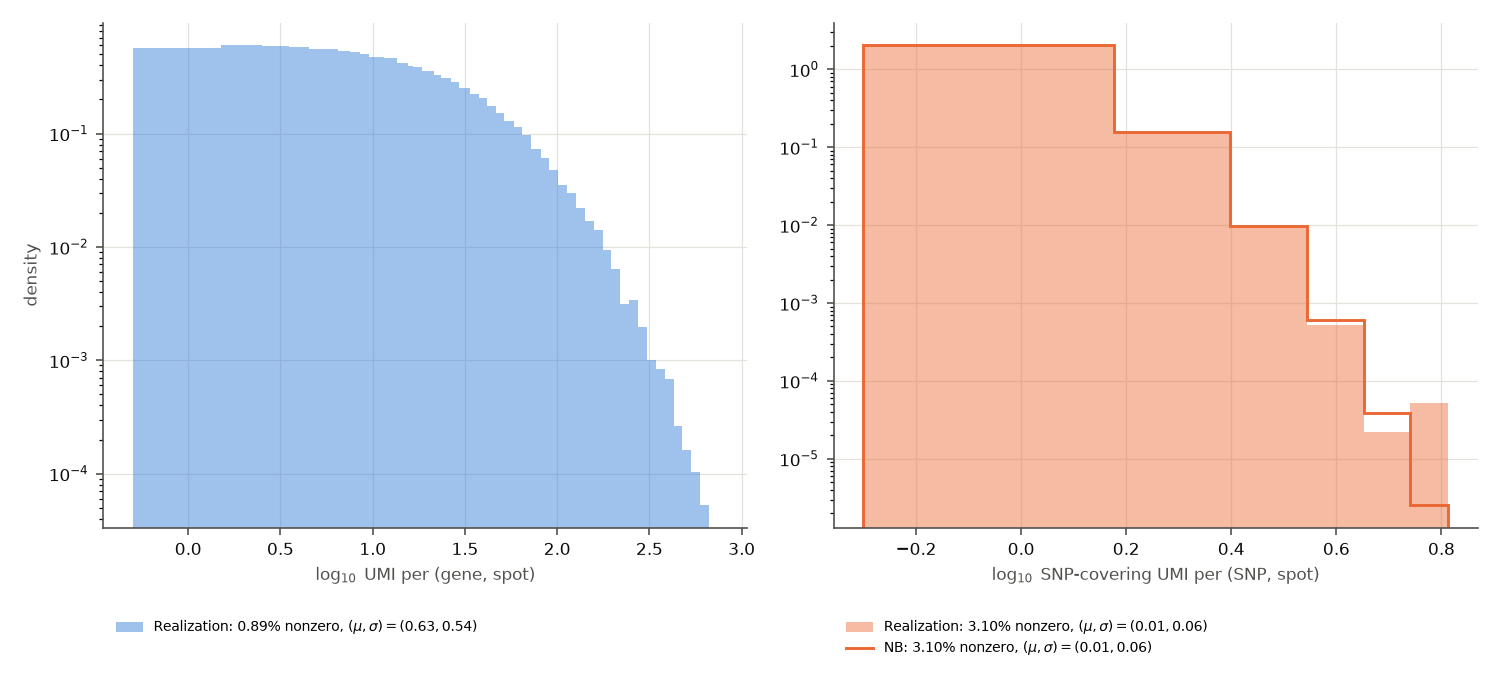
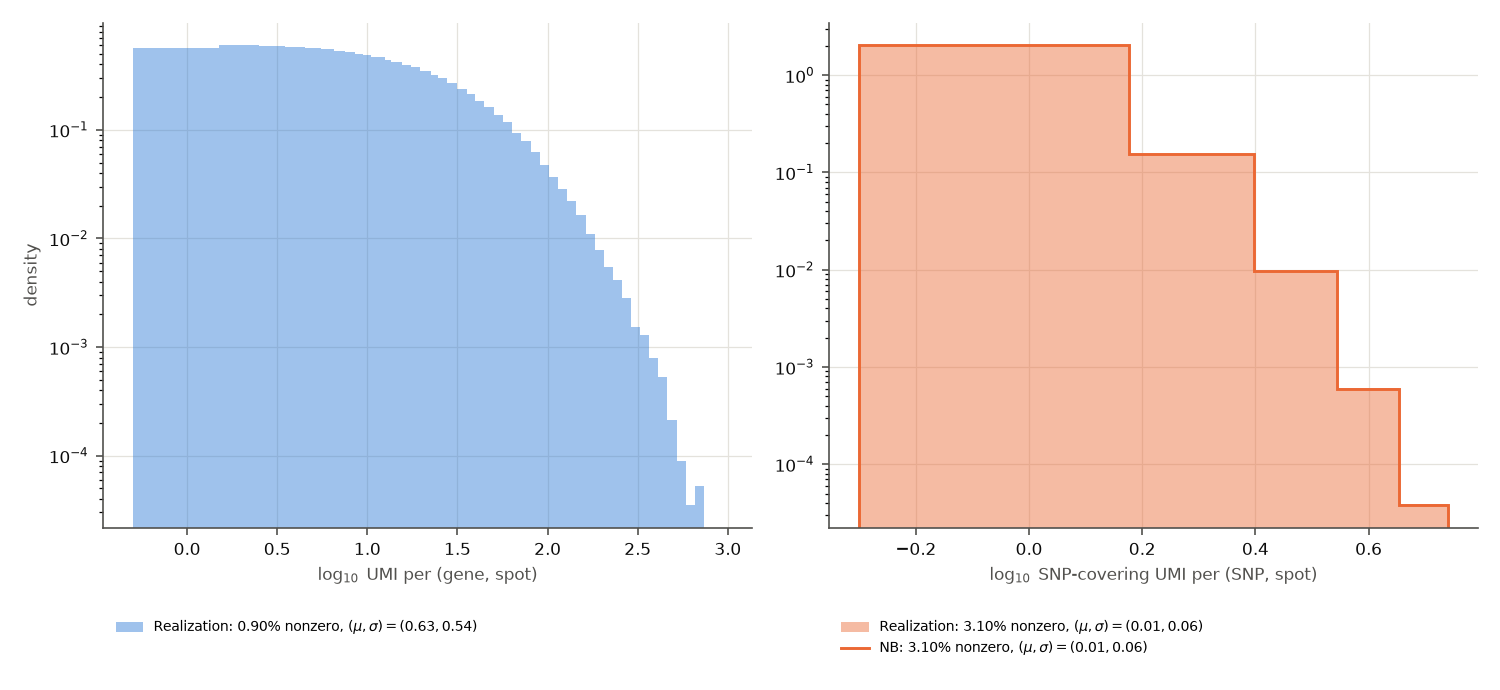
Dev sim manifests: every clone clears 300 spots, above cnaster's 200-spot ICM floor (#467, #468)
cnaster ignores hmrf.min_spots_per_clone and merges any clone under 200 spots
(#468, #81). At 25 x 25 and radius 0.3, dev_tree planted clone_2 at 49 spots
and clone_1 at 158, and run_cnaster_port --sal fitted 2 clones for 4 (clone
ARI 0.818 at e5ee447).

- dev_tree: 42 x 42 per slice, radius 0.4: 1,079 / 587 / 326, normal 1,536,
  3,528 spots. --sal at e5ee447: clone ARI 0.9997, 4 clones for 4; copy ARI
  0.956. Draws in 14.8 s. r0 content hash 93398396, reproduced by a second draw.
- dev_shared_unique: 50 x 50, radius 0.35: 664 / 337 / 377, normal 1,122,
  2,500 spots (was 123 / 68 / 79 at 625).
- docs/plots/sim_qa re-rendered from the new r0: spatial, clones_genomic
  and coverage change; the other 4 are byte-identical.

tests/test_sim_*.py and test_sandbox_sim_from_run: 41 passed in 49.5 s
(the two modules that draw dev_tree: 43.7 s against 44.6 s before).

Claude-Session: https://claude.ai/code/session_013R45AV845g3YiWXZGEDB8u

diff --git a/README.md b/README.md
@@ -382,7 +382,10 @@ the library; κ = 100 matches the normal spots' per-(gene, spot) nonzero share
 (0.90%) and `log10` moments. Each (SNP, spot) is drawn independently from the
 `snp_spot_umi` law. `[sample] realizations` redraws the counts and phase over
 the same clones and layout, each a complete sample in
-`sim/generated/<name>/r<k>/`, untracked; `dev_tree` draws in 9.4 s.
+`sim/generated/<name>/r<k>/`, untracked; `dev_tree` draws in 14.8 s. Both dev
+manifests plant every clone at 300 spots or more, above cnaster's fixed
+200-spot ICM floor (#468): `dev_tree` 3,528 spots over two 42 x 42 slices,
+`dev_shared_unique` 2,500 on one 50 x 50.
 `tests.sim_audit` runs and scores one realization:
 
     python -m port.sim.draw sim/manifests/dev_tree.toml
